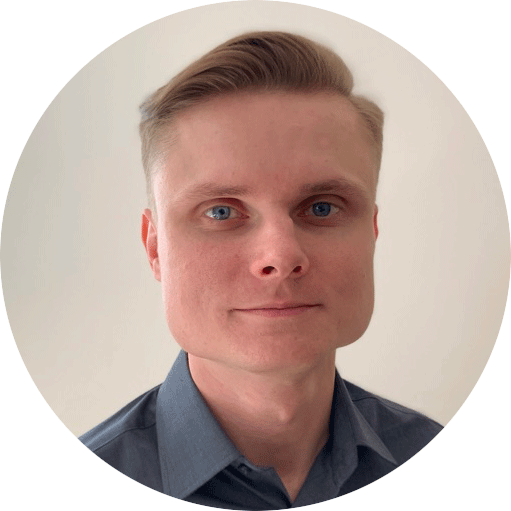
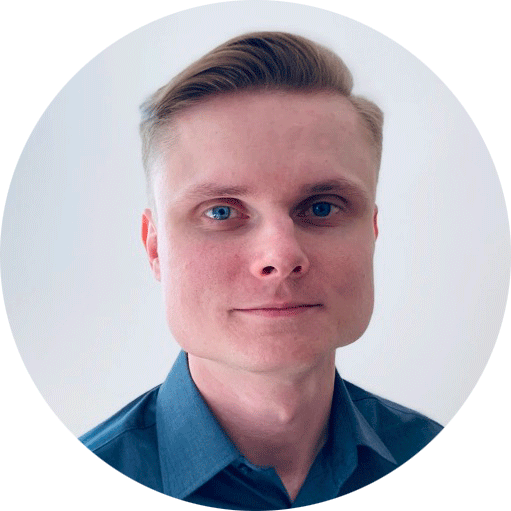
Changed photo. Adjusted navbar style settings.

diff --git a/_layouts/default.html b/_layouts/default.html
@@ -4,6 +4,13 @@
 	{%- include head.html -%}
 </head>
 <body>
+        <div class="navbar">
+            <ul class="navbar_list">
+                <li class="navbar_option"><a class="navbar_link" href="/index.html">HOME</a></li>
+                <li class="navbar_option"><a class="navbar_link" href="/blog.html">BLOG</a></li>
+                <li class="navbar_option"><a class="navbar_link" href="/about.html">ABOUT ME</a></li>
+            </ul>
+        </div>
 	<main class="container">
 		<section class="about">
 			<img src="{{ "/assets/portfolio.png" | relative_url }}" alt="{{ site.plainwhite.name }}">
@@ -18,11 +25,6 @@
 			<p>&copy; 2019</p>
 		</section>
 		<section class="content">
-                <ul style="list-style-type: none; margin: 0 0 50px 0; padding-left: 55px;">
-                    <li style="float: left;"><a href="/index.html" style="display: block; text-align: center; text-decoration: none; padding: 14px 16px;">HOME</a></li>
-                    <li style="float: left;"><a href="/blog.html" style="display: block; text-align: center; text-decoration: none; padding: 14px 16px;">BLOG</a></li>
-                    <li style="float: left;"><a href="/about.html" style="display: block; text-align: center; text-decoration: none; padding: 14px 16px;">ABOUT ME</a></li>
-                </ul>
 			{{ content }}
 		</section>
 	</main>

diff --git a/assets/css/style.scss b/assets/css/style.scss
@@ -1,0 +1,39 @@
+---
+---
+
+@import "plain";
+
+.navbar {
+    width: 100%;
+    height: 60px;
+    margin: 0 auto;
+    padding-top: 10px;
+}
+
+.navbar_list {
+    width: 400px;
+    list-style-type: none;
+    margin: 0;
+    margin-left: auto;
+    margin-right: auto;
+
+    @media screen and (max-width: 768px) {
+        width: 320px;
+    }
+}
+
+.navbar_option {
+   float: left;
+   min-width: 120px;
+
+    @media screen and (max-width: 768px) {
+        min-width: 75px;
+    }
+}
+
+.navbar_link {
+    display: block;
+    text-align: center;
+    text-decoration: none;
+    padding: 14px 16px;
+}
